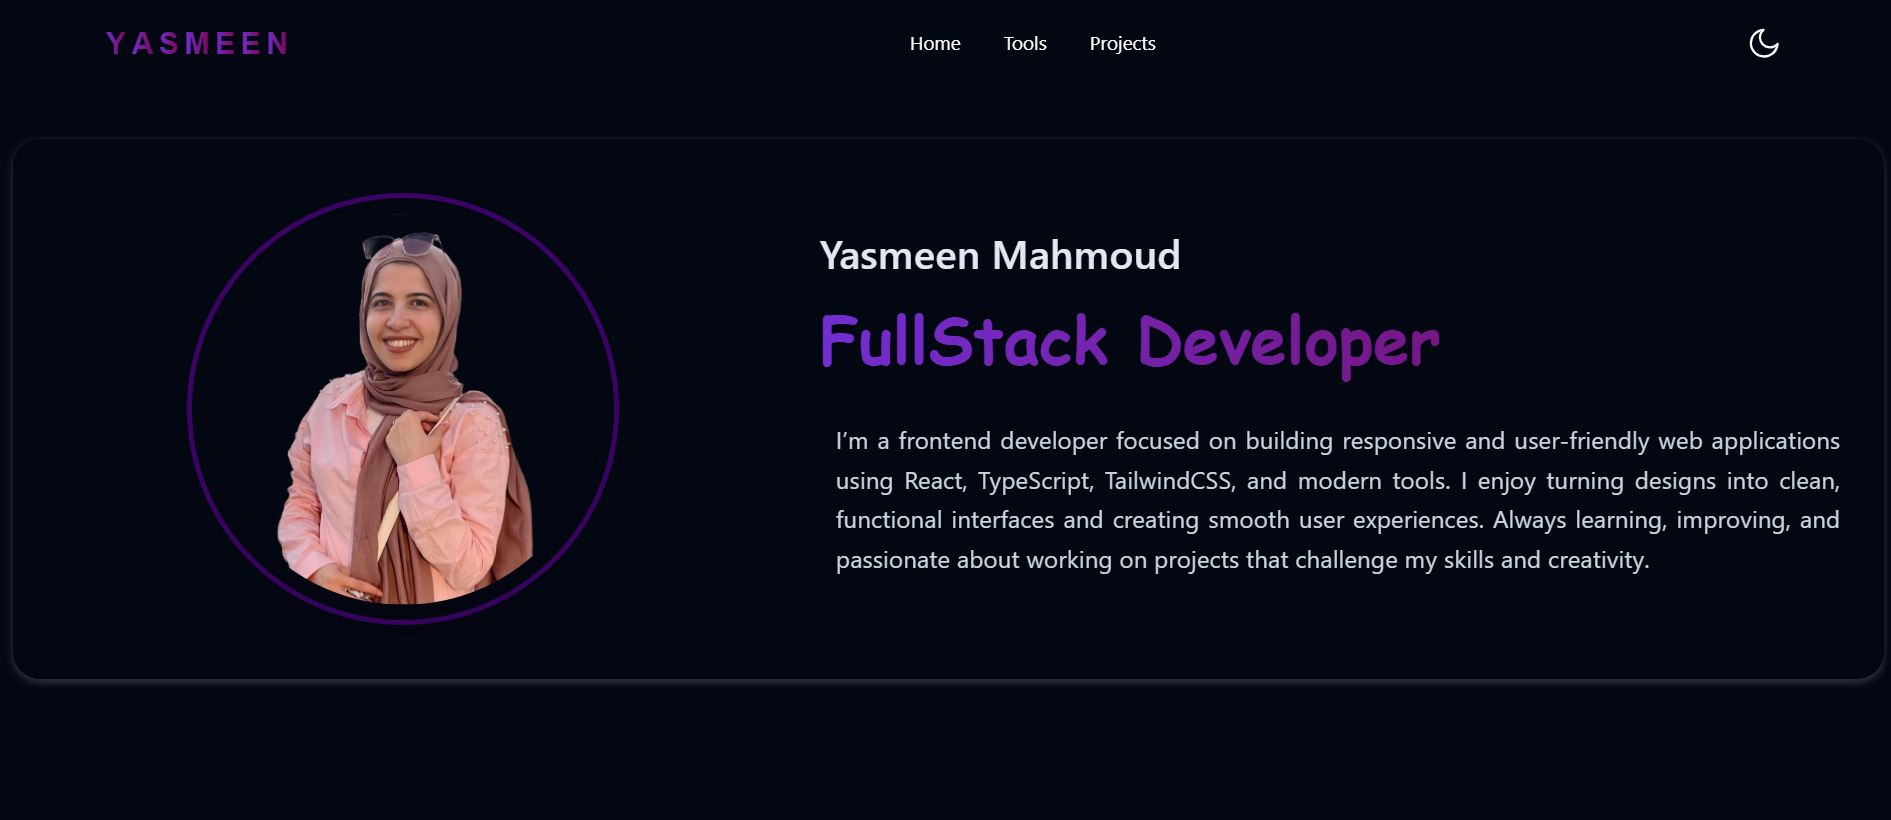
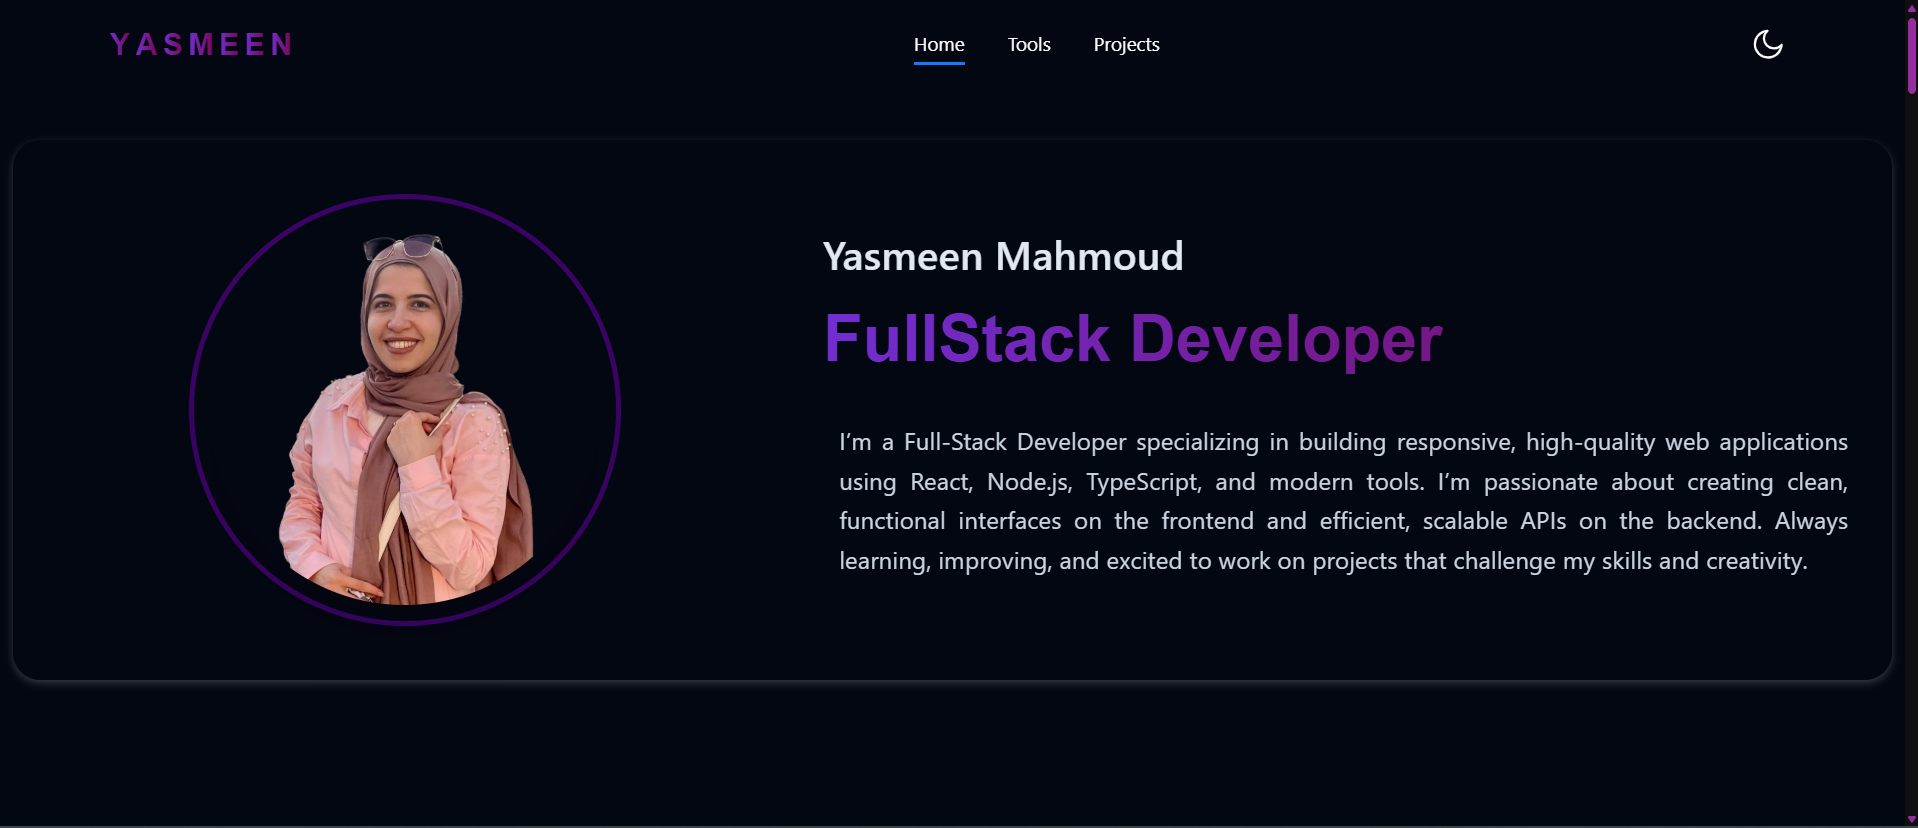
Fixing the images import

diff --git a/src/Utils/Data.js b/src/Utils/Data.js
@@ -1,11 +1,52 @@
 
+import portfolio from "../assets/Images/portfolio.png"
+import goldenStitchBg from "../assets/Images/goldenStitchBg.png"
+import landingSurveybG from "../assets/Images/landingSurveybG.png"
+import balanceFullBg from "../assets/Images/balanceFullBg.png"
+import ECommerceAppBg from "../assets/Images/E-commerceAppBg.png"
+import mealsAppBg from "../assets/Images/mealsAppBg.png"
+import bookStoreBg from "../assets/Images/bookStoreBg.png"
+import restaurantAppBg from "../assets/Images/restaurantAppBg.png"
+import react from "../assets/Images/react-svgrepo-com.svg"
+import tailwind from "../assets/Images/tailwind-svgrepo-com.svg"
+import shadCn from "../assets/Images/shadcn-logo_svgstack_com_31341764605308.svg"
+import MaterialUI from "../assets/Images/Material UI.svg"
+import AntDesign from "../assets/Images/Ant Design.svg"
+import flowbite from "../assets/Images/flowbite.svg"
+import framerMotion from "../assets/Images/framer-motion.png"
+import azios from "../assets/Images/Azios.svg"
+import reactQuery from "../assets/Images/React-Query-Icon--Streamline-Svg-Logos.svg"
+import redux from "../assets/Images/Redux.svg"
+import reactHookForm from "../assets/Images/react-hook-form-logo-only.svg"
+import formik from "../assets/Images/Formik--Streamline-Simple-Icons.svg"
+import zod from "../assets/Images/Zod--Streamline-Svg-Logos.svg"
+import joi from "../assets/Images/joiTransparent.c5fc726.png"
+import nodeJs from "../assets/Images/Node.js.svg"
+import express from "../assets/Images/Express.svg"
+import mongoDb from "../assets/Images/MongoDB.svg"
+import mongoose from "../assets/Images/Mongoose.js.svg"
+import aws from "../assets/Images/AWS.svg"
+import figma from "../assets/Images/Figma.svg"
+import git from "../assets/Images/Git.svg"
+import github from "../assets/Images/GitHub.svg"
+import bootstrap from "../assets/Images/bootstrap-svgrepo-com.svg"
+import typescript from "../assets/Images/typescript-icon-svgrepo-com.svg"
+import javascript from "../assets/Images/javascript-logo-svgrepo-com.svg"
+import css from "../assets/Images/css-3-svgrepo-com.svg"
+import html from "../assets/Images/html-5-svgrepo-com.svg"
+
+
+
+
+
+
 export const projects = [
     {
         "id": 11,
         "name": "personal portfolio",
         "link": "https://yasminmahmoud16.github.io/my_portfolio/",
         "gitHubLink": "https://github.com/yasminMahmoud16/my_portfolio",
-        "image": "src/assets/Images/portfolio.png",
+        "image": portfolio,
         "tech": [
             "React",
             "Ant design",
@@ -18,7 +59,7 @@ export const projects = [
         "name": "golden Stitch Leathers",
         "link": "https://www.goldenstitchleathers.com/",
         "gitHubLink": "https://github.com/yasminMahmoud16/E-commerce-golden-stitch",
-        "image": "src/assets/Images/goldenStitchBg.png",
+        "image": goldenStitchBg,
         "tech": [
             "React",
             "TypeScript",
@@ -37,7 +78,7 @@ export const projects = [
         "name": "landing Survey",
         "link": "https://surveyland.vercel.app/",
         "gitHubLink": "https://github.com/osamaashraf6/Landing-Survey",
-        "image": "src/assets/Images/landingSurveybG.png",
+        "image": landingSurveybG,
         "tech": [
             "React",
             "Shadcn UI",
@@ -54,7 +95,7 @@ export const projects = [
         "name": "Ballance Full",
         "gitHubLink": "https://github.com/MostafaMnesey/BalanceFull",
         "behanceLink": "https://www.behance.net/gallery/229060637/Landing-Page",
-        "image": "src/assets/Images/balanceFullBg.png",
+        "image": balanceFullBg,
         "tech": [
             "React",
             "Flowbite",
@@ -73,7 +114,7 @@ export const projects = [
         "link": "https://yasminmahmoud16.github.io/E-commerceApp/#/login",
         "gitHubLink": "https://github.com/yasminMahmoud16/E-commerceApp",
         "behanceLink": "https://www.behance.net/gallery/219936697/E-commerce-APP",
-        "image": "src/assets/Images/E-commerceAppBg.png",
+        "image": ECommerceAppBg,
         "tech": [
             "React",
             "Flowbite",
@@ -91,7 +132,7 @@ export const projects = [
         "name": "Meals App",
         "link": "https://yasminmahmoud16.github.io/mealsApp/",
         "gitHubLink": "https://github.com/yasminMahmoud16/mealsApp",
-        "image": "src/assets/Images/mealsAppBg.png",
+        "image": mealsAppBg,
         "tech": [
             "React",
             "Tailwind CSS",
@@ -104,7 +145,7 @@ export const projects = [
         "name": "E-Book App",
         "link": "https://site3ebookstore.netlify.app/",
         "behanceLink": "https://www.behance.net/gallery/201031223/E-Book",
-        "image": "src/assets/Images/bookStoreBg.png",
+        "image": bookStoreBg,
         "tech": [
             "Javascript",
             "Bootstrap",
@@ -118,7 +159,7 @@ export const projects = [
         "name": "Grill-Restaurant App",
         "link": "https://site6restaurant.netlify.app/",
         "behanceLink": "https://www.behance.net/gallery/200953331/Grill-Restaurant",
-        "image": "src/assets/Images/restaurantAppBg.png",
+        "image": restaurantAppBg,
         "tech": [
             "Javascript",
             "Bootstrap",
@@ -136,132 +177,142 @@ export const tools = {
         {
             "id": 5,
             "name": "ReactJs",
-            "image": "src/assets/Images/react-svgrepo-com.svg"
+            "image": react
         },
         {
             "id": 6,
             "name": "TailwindCss",
-            "image": "src/assets/Images/tailwind-svgrepo-com.svg"
+            "image": tailwind
         },
         {
             "id": 9,
             "name": "shadcn",
-            "image": "src/assets/Images/shadcn-logo_svgstack_com_31341764605308.svg"
+            "image": shadCn
         },
         {
             "id": 90,
             "name": "Material UI",
-            "image": "src/assets/Images/Material UI.svg"
+            "image": MaterialUI
         },
         {
             "id": 11,
             "name": "Ant Design",
-            "image": "src/assets/Images/Ant Design.svg"
+            "image": AntDesign
         },
 
         {
             "id": 10,
             "name": "flowbite",
-            "image": "src/assets/Images/flowbite.svg"
+            "image": flowbite
         },
         {
             "id": 20,
             "name": "framer-motion",
-            "image": "src/assets/Images/framer-motion.png"
+            "image": framerMotion
         },
 
         {
             "id": 7,
             "name": "Axios",
-            "image": "src/assets/Images/Azios.svg"
+            "image": azios
         },
         {
             "id": 8,
             "name": "React Query",
-            "image": "src/assets/Images/React-Query-Icon--Streamline-Svg-Logos.svg"
+            "image": reactQuery
         },
         {
             "id": 80,
             "name": "Redux",
-            "image": "src/assets/Images/Redux.svg"
+            "image": redux
         },
         {
             "id": 14,
             "name": "React Hook Form",
-            "image": "src/assets/Images/react-hook-form-logo-only.svg"
+            "image": reactHookForm
         },
         {
             "id": 15,
             "name": "Formik",
-            "image": "src/assets/Images/Formik--Streamline-Simple-Icons.svg"
+            "image": formik
         },
         {
             "id": 16,
             "name": "Zod",
-            "image": "src/assets/Images/Zod--Streamline-Svg-Logos.svg"
+            "image": zod
         },
         {
             "id": 17,
             "name": "Joi",
-            "image": "src/assets/Images/joiTransparent.c5fc726.png"
+            "image": joi
         },
         {
             "id": 18,
             "name": "NodeJs",
-            "image": "src/assets/Images/Node.js.svg"
+            "image": nodeJs
         },
         {
             "id": 19,
             "name": "ExpressJs",
-            "image": "src/assets/Images/Express.svg"
+            "image": express
         },
         {
             "id": 200,
             "name": "MongoDB",
-            "image": "src/assets/Images/MongoDB.svg"
+            "image": mongoDb
         },
         {
             "id": 28,
             "name": "Mongoose.js",
-            "image": "src/assets/Images/Mongoose.js.svg"
+            "image": mongoose
         },
         {
             "id": 29,
             "name": "AWS",
-            "image": "src/assets/Images/AWS.svg"
+            "image": aws
         },
         {
             "id": 21,
             "name": "Figma",
-            "image": "src/assets/Images/Figma.svg"
+            "image": figma
+        },
+        {
+            "id": 210,
+            "name": "Git",
+            "image": git
+        },
+        {
+            "id": 211,
+            "name": "GitHub",
+            "image": github
         },
 
         {
             "id": 12,
             "name": "Bootstrap",
-            "image": "src/assets/Images/bootstrap-svgrepo-com.svg"
+            "image": bootstrap
         }
     ],
         "languages": [
             {
                 "id": 1,
                 "name": "TypeScript",
-                "image": "src/assets/Images/typescript-icon-svgrepo-com.svg"
+                "image": typescript
             },
             {
                 "id": 2,
                 "name": "JavaScript",
-                "image": "src/assets/Images/javascript-logo-svgrepo-com.svg"
+                "image": javascript
             },
             {
                 "id": 3,
                 "name": "Css3",
-                "image": "src/assets/Images/css-3-svgrepo-com.svg"
+                "image": css
             },
             {
                 "id": 4,
                 "name": "Html5",
-                "image": "src/assets/Images/html-5-svgrepo-com.svg"
+                "image": html
             }
         ]
 };
